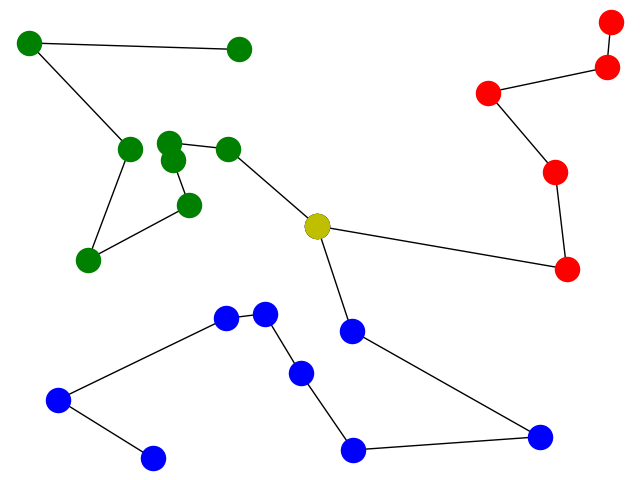
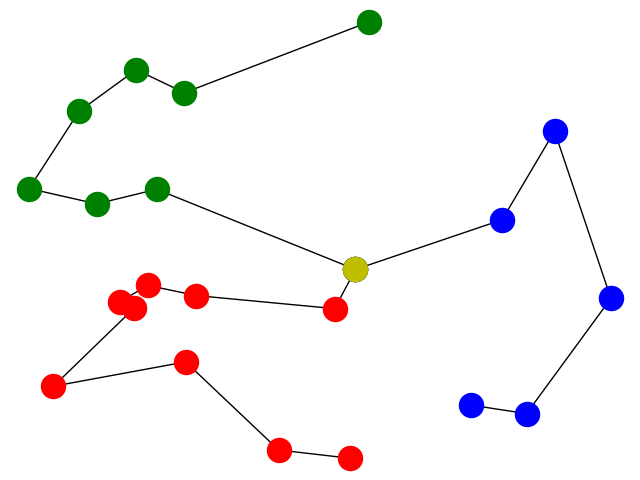
Change the color of school points to yellow, Match the colors in all the graphs

diff --git a/main.py b/main.py
@@ -361,9 +361,9 @@ print_matrix_to_excel()
 (divide_list_of_children, means) = divide_list_of_children_by_k_means(3)
 
 #Plot cluster image
-plt.scatter(*zip(*gv.clusters[0]), color='green')
-plt.scatter(*zip(*gv.clusters[1]), color='blue')
-plt.scatter(*zip(*gv.clusters[2]), color='red')
+plt.scatter(*zip(*gv.clusters[0]), color=gv.node_color[0])
+plt.scatter(*zip(*gv.clusters[1]), color=gv.node_color[1])
+plt.scatter(*zip(*gv.clusters[2]), color=gv.node_color[2])
 #Add means to the image
 plt.scatter(*zip(*means), color='black', s=150)
 
